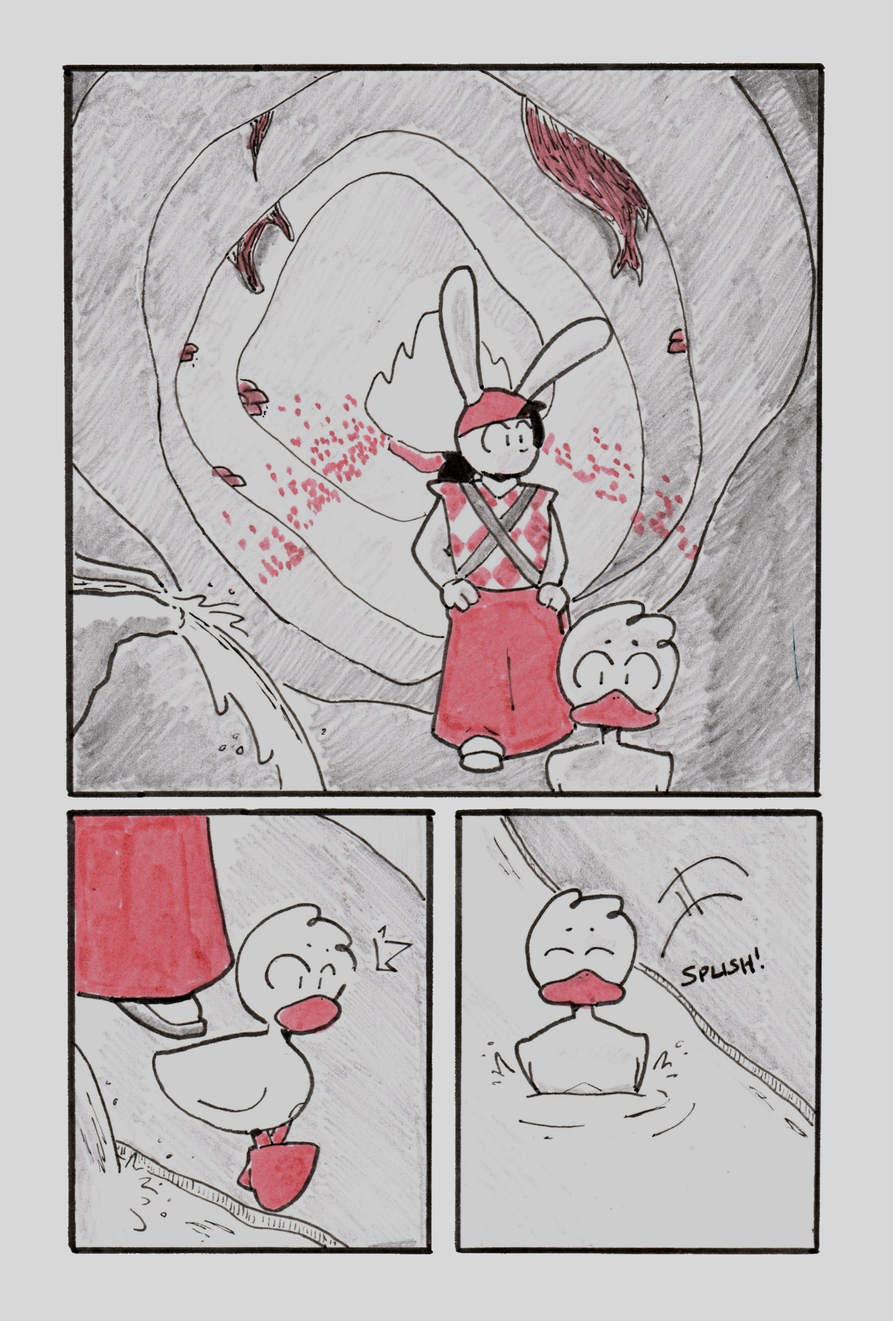
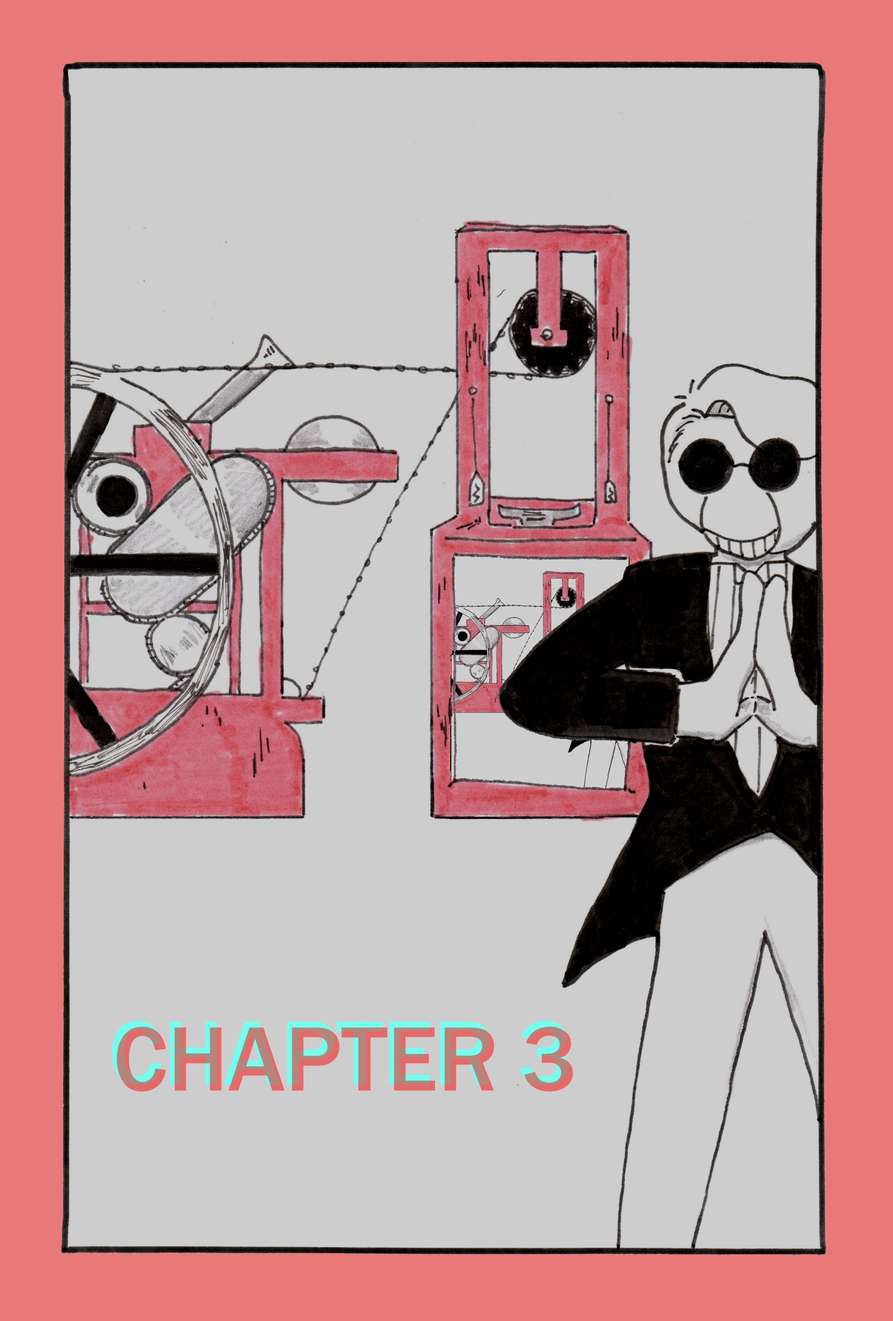
Chapter 3 pages

diff --git a/blogs/4.php b/blogs/4.php
@@ -1,0 +1,13 @@
+<p>In this chapter, the thieving magpie (no relation) is encountered.</p>
+<p>Write a little about how it's been a full IA year. What has that been like?</p>
+<p>As an exercise, I have written a short list of comics, books, films, albums, and other items that may be of interest to <i>IA IA IA</i> readers. This is not a straightforward list of endorsements - please think of it as a list of IA parents. The below is about half of the full list, the rest of which I will divulge in the future.</p> 
+<ul>
+    <li>Owly: The Way Home and the Bittersweet Summer (Andy Runton, 2004)</li>
+    <li>Alice's Adventures in Wonderland (Lewis Carroll, 1865)</li>
+    <li>Speaking in Tongues (Talking Heads, 1983)</li>
+    <li>Spirited Away (Hayao Miyazaki, 2001)</li>
+    <li>Animal Man #1-26 (Grant Morrison, 1988-1990)</li>
+    <li>Bone (Jeff Smith, 1991-2004)</li>
+    <li>1Q84 (Haruki Murakami, 2009-2010)</li>
+</ul>
+<p><a href="/read/27">Chapter 3 of IA IA IA is here.</a> Please enjoy it.</p>
